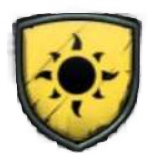
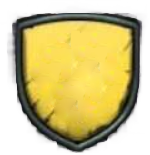
symbols

Changed region(s): [[0.1867, 0.1806, 0.8, 0.7742]]

diff --git a/HTML/FactionCreator.html b/HTML/FactionCreator.html
@@ -53,7 +53,12 @@
         <div class="container">
             <button class="button-random" onclick="SetRandomStart()">Randomise</button><br>
             <div style="height:110px">
-                <img src="/aow4db/Icons/Interface/Sigil.png" width="70px" height="70px" style="float:left">
+                <div class="playerSigil" onclick="SetupButtons('Symbol')">
+                    <img class="shield" id="shield" src="/aow4db/Icons/Interface/Sigil.png" width="80px" height="80px" style="float:left">
+                    <img class="symbol" id="symbol" src="/aow4db/Icons/Symbols/SigilIcons_01.png" height="50px" style="float:left">
+                </div>
+                <button class="test" id="shieldColor" onclick="ChangeShieldCol()">Color 1</button>
+                <button class="test" id="shieldColor2" onclick="ChangeSymbolCol()">Color 2</button>
                 <input type="text" value="Ruler Name" class="inputfield" id="fname1" name="fname">
                 <div id="currentAffinity" class="affinityText"> </div>
             </div>
@@ -133,8 +138,42 @@
     var currentSociety2 = "";
     var currentLoadout = "";
 
+    function ChangeShieldCol() {
+
+        var shieldElement = document.getElementById("shield");
+        degrees = Math.random() * 360;
+        shieldElement.setAttribute("style", "filter: hue-rotate(" + degrees + "deg)");
+    }
+
+    function ChangeSymbolCol() {
+
+        var symbolElement = document.getElementById("symbol");
+        degrees = Math.random() * 360;
+        symbolElement.setAttribute("style", "filter: hue-rotate(" + degrees + "deg)")
+    }
+
+    function GetRandomSymbol() {
+        var symbolElement = document.getElementById("symbol");
+        var numb = Math.floor(Math.random() * 138);
+        if (numb < 10 && numb > 0) {
+
+            numb = "0" + numb.toString();
+        }
+        if (numb == 0) {
+            numb += 1;
+            numb = "0" + numb.toString();
+        }
+        symbolElement.setAttribute("src", "/aow4db/Icons/Symbols/SigilIcons_" + numb + ".gif");
+
+    }
+
+
+
     function SetRandomStart() {
 
+        GetRandomSymbol();
+        ChangeShieldCol();
+        ChangeSymbolCol();
 
         var listofChoice = new Array();
         listofChoice.push("Tome");
@@ -279,6 +318,29 @@
     }
 
 
+    // Function to handle the selection of an origin
+    function SelectSymbol(origin) {
+
+
+
+        var symbolElement = document.getElementById("symbol");
+
+        if (origin < 10 && origin > 0) {
+
+            origin = "0" + origin.toString();
+        }
+        if (origin == 0) {
+            origin = 138;
+
+        }
+        symbolElement.setAttribute("src", "/aow4db/Icons/Symbols/SigilIcons_" + origin + ".gif");
+
+
+
+        toggleOriginButtons();
+    }
+
+
     function SetupButtons(type) {
 
         var originWrapper = document.getElementById("originWrapperOptions");
@@ -328,6 +390,14 @@
                 list = GetAllSocietyTraits();
 
                 break;
+
+            case "Symbol":
+                list = Array.from({
+                    length: 138
+                }, (_, index) => index);
+                // list = new Array(138);
+
+                break;
         }
 
         // console.log(currentChoice);
@@ -337,15 +407,25 @@
         var selectionsText = document.getElementById("selections");
         selectionsText.textContent = "Select " + type;
         for (const origin of list) {
-            if (!incompatibleCheck(type, origin)) {
+            if (type == "Symbol") {
                 const originButtonNew = document.createElement("button");
-                originButtonNew.className = "list-button";
-                originButtonNew.addEventListener("click", () => selectOrigin(origin, type));
-
+                originButtonNew.addEventListener("click", () => SelectSymbol(origin));
+                originButtonNew.className = "list-button-small";
                 originWrapper.appendChild(originButtonNew);
-
                 SetButtonInfo(originButtonNew, origin, type);
-                // originButtonNew.innerHTML += "<span style=\"color:red\"> Incompatible </span>";
+
+            } else {
+                if (!incompatibleCheck(type, origin)) {
+                    const originButtonNew = document.createElement("button");
+                    originButtonNew.className = "list-button";
+                    originButtonNew.addEventListener("click", () => selectOrigin(origin, type));
+
+                    originWrapper.appendChild(originButtonNew);
+
+                    SetButtonInfo(originButtonNew, origin, type);
+                    // originButtonNew.innerHTML += "<span style=\"color:red\"> Incompatible </span>";
+                }
+
             }
 
 
@@ -480,30 +560,48 @@
             image.src = "/aow4db/Icons/FactionCreation/" + origin.id + ".png"; // Set the image source to your image file
         } else if (type == "Loadout") {
             image.src = "/aow4db/Icons/Abilities/" + origin.id + ".png"; // Set the image source to your image file
+        } else if (type == "Symbol") {
+            if (origin < 10 && origin > 0) {
+
+                origin = "0" + origin.toString();
+            }
+            if (origin == 0) {
+                origin += 138;
+
+            }
+            image.src = "/aow4db/Icons/Symbols/SigilIcons_" + origin + ".gif"; // Set the image source to your image file
+        }
+        if (type != "Symbol") {
+
+
+
+            // Create a span element to hold the button text
+            const buttonText = document.createElement("span");
+
+            buttonText.innerHTML = origin.name;
+            var affinity = "";
+            if ('affinity' in origin) {
+                affinity = ClearAffinityExtraTags(origin.affinity);
+                affinity = affinity.replaceAll(",", "");
+                buttonText.innerHTML += " " + affinity;
+            }
+
+            if ('affinities' in origin) {
+
+                affinity = ClearAffinityExtraTags(duplicateTags(origin.affinities));
+                affinity = affinity.replaceAll(",", "");
+                buttonText.innerHTML += " " + affinity;
+
+            }
+            // Append the image and button text to the button element
+            button.appendChild(image);
+            button.appendChild(buttonText);
+        } else {
+            button.appendChild(image);
+            return;
+
         }
 
-
-        // Create a span element to hold the button text
-        const buttonText = document.createElement("span");
-
-        buttonText.innerHTML = origin.name;
-        var affinity = "";
-        if ('affinity' in origin) {
-            affinity = ClearAffinityExtraTags(origin.affinity);
-            affinity = affinity.replaceAll(",", "");
-            buttonText.innerHTML += " " + affinity;
-        }
-
-        if ('affinities' in origin) {
-
-            affinity = ClearAffinityExtraTags(duplicateTags(origin.affinities));
-            affinity = affinity.replaceAll(",", "");
-            buttonText.innerHTML += " " + affinity;
-
-        }
-        // Append the image and button text to the button element
-        button.appendChild(image);
-        button.appendChild(buttonText);
 
 
 
@@ -592,6 +690,30 @@
         justify-content: normal;
     }
 
+    .list-button-small {
+
+
+        border-width: 3px;
+        border-style: solid;
+        border-image: url(/aow4db/Icons/9slicetooltip.png);
+        border-image-slice: 10 10 10 10;
+        border-image-repeat: stretch;
+        width: 50px;
+        background-color: #111;
+        color: #fff;
+        /* border: none; */
+        cursor: pointer;
+        position: relative;
+
+
+    }
+
+    .list-button-small:hover {
+
+        background-color: dimgrey;
+
+    }
+
     .list-button:hover {
 
         background-color: dimgrey;
@@ -617,6 +739,19 @@
 
     }
 
+    .shield {
+        float: left;
+    }
+
+    .symbol {
+
+        position: absolute;
+        /* float: left; */
+        top: 42px;
+
+        left: 16px;
+    }
+
     .selections {
         width: 300px;
 
@@ -624,6 +759,7 @@
         display: inline-block;
         position: relative;
     }
+
 
     .container {
 
@@ -682,6 +818,7 @@
     }
 
     .factioncreator {
+        margin: auto;
         width: 800px;
         display: flex;
         justify-content: space-between;
